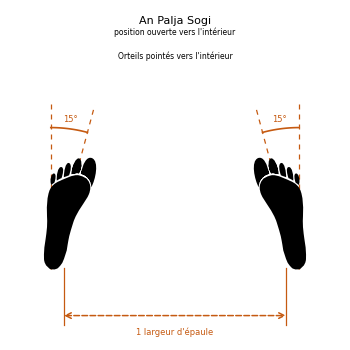
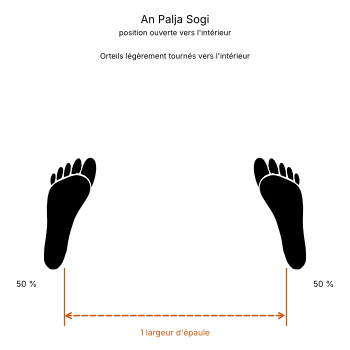
Aligner les schémas des positions sur l'Encyclopédie (p. 65-83)
Corrige le générateur de schémas et régénère 13 schémas : Narani (bords
extérieurs), Annun et Sasun (gros orteil à gros orteil), Niunja (tranchant
arrière → orteils avant, talon avant 2,5 cm au-delà du talon arrière),
Gojung (même placement), Dwitbal (pied arrière rentré de 15°, pas 35°),
Soojik (pied avant au droit du talon arrière), Kyocha (pied croisé devant),
Waebal/Guburyo (tranchant interne), An Palja (angle non chiffré).
Aligne les phrases du manuel et des fiches Narani et Dwitbal qui décrivaient
les mêmes cotes.

Claude-Session: https://claude.ai/code/session_01A1NHe48Zve2KgpxbBVKny8

diff --git a/scripts/generer-sogi.py b/scripts/generer-sogi.py
@@ -408,6 +408,18 @@ def position(slug, titre, sous_titre=None):
     return deco
 
 
+def _xmin(pied):
+    return min(p[0] for p in pied.points())
+
+
+def _ymin(pied):
+    return min(p[1] for p in pied.points())
+
+
+def _ymax(pied):
+    return max(p[1] for p in pied.points())
+
+
 def _avancer(pied, repere, cible):
     """Décale un pied pour amener l'ordonnée d'un de ses repères sur `cible`."""
     return pied.decaler(0.0, cible - pied.rp(repere)[1])
@@ -426,13 +438,15 @@ def _junbi(s):
 
 @position("narani-sogi", "Narani Sogi", "position parallèle")
 def _narani(s):
-    g = s.pied("G", at=(-EPAULE / 2, PIED_L), repere="gros-orteil")
-    d = s.pied("D", at=(EPAULE / 2, PIED_L), repere="gros-orteil")
-    s.cote_h(PIED_L + 6, -EPAULE / 2, EPAULE / 2,
-             L_EPAULE + "\n(gros orteil à gros orteil)",
-             ext=(PIED_L, PIED_L + 8))
+    # Encyclopédie p. 65 : le croquis cote une largeur d'épaule entre les
+    # bords extérieurs des pieds, orteils droit devant.
+    g = s.pied("G", at=(-EPAULE / 2, 0), repere="externe")
+    d = s.pied("D", at=(EPAULE / 2, 0), repere="externe")
+    s.cote_h(-13, -EPAULE / 2, EPAULE / 2, L_EPAULE + "\n(bords extérieurs)",
+             ext=(-15, 1), dessous=True)
     s.poids(g, "50 %")
     s.poids(d, "50 %")
+    s.texte((0, PIED_L + 5), "Pieds parallèles (0°)")
 
 
 @position("narani-junbi-sogi", "Narani Junbi Sogi", "position d'attente parallèle")
@@ -474,14 +488,15 @@ def _kyong_ye(s):
 
 @position("annun-sogi", "Annun Sogi", "position assise (du cavalier)")
 def _annun(s):
-    g = s.pied("G", at=(-EPAULE_15 / 2, 0), repere="centre")
-    d = s.pied("D", at=(EPAULE_15 / 2, 0), repere="centre")
-    s.cote_h(-23, -EPAULE_15 / 2, EPAULE_15 / 2,
-             L_EPAULE_15 + "\n(de centre à centre)", ext=(-25, -12.5),
-             dessous=True)
+    # Encyclopédie p. 72 : une largeur d'épaule et demie entre les gros orteils.
+    g = s.pied("G", at=(-EPAULE_15 / 2, PIED_L), repere="gros-orteil")
+    d = s.pied("D", at=(EPAULE_15 / 2, PIED_L), repere="gros-orteil")
+    yo = g.rp("gros-orteil")[1]
+    s.cote_h(yo + 6, -EPAULE_15 / 2, EPAULE_15 / 2,
+             L_EPAULE_15 + "\n(gros orteil à gros orteil)", ext=(yo, yo + 8))
     s.poids(g, "50 %")
     s.poids(d, "50 %")
-    s.texte((0, PIED_L + 8), "Genoux forcés vers l'extérieur")
+    s.texte((0, -12), "Orteils droit devant,\ngenoux forcés vers l'extérieur")
 
 
 @position("gunnun-sogi", "Gunnun Sogi", "position de marche — pied gauche avant")
@@ -506,17 +521,21 @@ def _nachuo(s):
 
 @position("niunja-sogi", "Niunja Sogi", "position en « L » — pied gauche avant")
 def _niunja(s):
+    # Encyclopédie p. 69 : 1 1/2 largeur d'épaule du tranchant du pied
+    # arrière aux orteils du pied avant ; talon avant 2,5 cm au-delà du talon
+    # arrière ; orteils des deux pieds rentrés d'environ 15°.
     d = s.pied("D", at=(0, 0), angle=-75, repere="talon")
-    g = s.pied("G", at=(-2.5, 0), angle=-15, repere="gros-orteil")
-    _avancer(g, "gros-orteil", d.rp("petit-orteil")[1] + EPAULE_15)
-    y0, y1 = d.rp("petit-orteil")[1], g.rp("gros-orteil")[1]
-    s.cote_v(20, y0, y1,
-             L_EPAULE_15 + "\n(petit orteil arrière →\ngros orteil avant)",
-             ext=(-12, 22))
-    s.cote_h(y0 - 12, -2.5, 0,
-             "Gros orteil avant à 2,5 cm\nà l'extérieur du talon arrière",
-             ext=(y0 - 14, 2), dessous=True)
-    s.ligne((-2.5, y0 - 14), (-2.5, y1))
+    xt = _xmin(d)
+    g = s.pied("G", at=(xt - 2.5, 0), angle=-15, repere="talon")
+    _avancer(g, "orteils", _ymin(d) + EPAULE_15)
+    y0, y1 = _ymin(d), _ymax(g)
+    s.cote_v(24, y0, y1,
+             L_EPAULE_15 + "\n(tranchant du pied arrière\n→ orteils du pied avant)",
+             ext=(xt - 12, 26))
+    s.cote_h(y0 - 12, xt - 2.5, xt,
+             "Talon avant 2,5 cm au-delà\ndu talon arrière",
+             ext=(y0 - 14, y0), dessous=True)
+    s.ligne((xt - 2.5, y0 - 14), (xt - 2.5, g.rp("talon")[1]))
     s.poids(g, "30 %")
     s.poids(d, "70 %")
     s.texte((0, y1 + 8), "Pieds à ~90°, orteils rentrés de 15°")
@@ -524,8 +543,10 @@ def _niunja(s):
 
 @position("gojung-sogi", "Gojung Sogi", "position fixe — pied gauche avant")
 def _gojung(s):
+    # Encyclopédie p. 71 : placement de Niunja Sogi, 1 1/2 largeur d'épaule
+    # entre les gros orteils, poids réparti également.
     d = s.pied("D", at=(0, 0), angle=-75, repere="talon")
-    g = s.pied("G", at=(-2.5, 0), angle=-15, repere="gros-orteil")
+    g = s.pied("G", at=(_xmin(d) - 2.5, 0), angle=-15, repere="talon")
     _avancer(g, "gros-orteil", d.rp("gros-orteil")[1] + EPAULE_15)
     y0, y1 = d.rp("gros-orteil")[1], g.rp("gros-orteil")[1]
     s.cote_v(20, y0, y1, L_EPAULE_15 + "\n(gros orteil à gros orteil)",
@@ -538,31 +559,40 @@ def _gojung(s):
 @position("dwitbal-sogi", "Dwitbal Sogi",
           "position arrière rapprochée — pied gauche avant")
 def _dwitbal(s):
-    d = s.pied("D", at=(0, 0), angle=-35, repere="talon")
-    g = s.pied("G", at=(0, 0), angle=-25, repere="centre", appui="plante")
+    # Encyclopédie p. 77 : une largeur d'épaule entre les petits orteils ;
+    # orteils du pied avant rentrés d'environ 25°, du pied arrière d'environ
+    # 15° ; talon arrière légèrement au-delà du talon avant ; l'essentiel du
+    # poids sur le pied arrière.
+    d = s.pied("D", at=(0, 0), angle=-75, repere="talon")
+    xt = _xmin(d)
+    g = s.pied("G", at=(xt + 2.5, 0), angle=-25, repere="talon", appui="plante")
     _avancer(g, "petit-orteil", d.rp("petit-orteil")[1] + EPAULE)
     y0, y1 = d.rp("petit-orteil")[1], g.rp("petit-orteil")[1]
-    s.cote_v(22, y0, y1, L_EPAULE + "\n(petit orteil\nà petit orteil)",
-             ext=(-14, 24))
-    s.ligne((0, y0 - 8), (0, y1 + 8))
-    s.note(g.rp("talon"), (-34, y1 * 0.6),
+    s.cote_v(30, y0, y1, L_EPAULE + "\n(petit orteil\nà petit orteil)",
+             ext=(xt - 4, 32))
+    s.ligne((xt, y0 - 10), (xt, g.rp("talon")[1] + 4))
+    s.note(g.rp("talon"), (-34, (y0 + y1) / 2 - 4),
            "Talon avant décollé :\nappui sur la plante", courbe=0.25)
-    s.angle(d.rp("talon"), 55, 90, PIED_L + 5, "35°", rayons=PIED_L + 11)
-    s.poids(g, "0 %")
-    s.poids(d, "~100 %")
-    s.texte((0, -22), "Pied avant centré sur l'axe du talon arrière")
+    s.texte((g.rp("orteils")[0] + 4, _ymax(g) + 4), "très peu de poids",
+            taille=T_COTE, ha="left", va="bottom")
+    s.poids(d, "l'essentiel\ndu poids")
+    s.texte((6, y0 - 18), "Orteils rentrés : avant ~25°, arrière ~15°\n"
+                          "Talon arrière légèrement au-delà du talon avant")
 
 
 @position("soojik-sogi", "Soojik Sogi", "position verticale — pied gauche avant")
 def _soojik(s):
     # comme en position en L : pieds presque à angle droit, orteils des deux
     # pieds rentrés d'environ 15° (Encyclopédie condensée, position verticale)
-    d = s.pied("D", at=(PIED_l / 2 + 1, 0), angle=-75, repere="talon")
-    g = s.pied("G", at=(-PIED_l / 2 - 1, 0), angle=-15, repere="centre")
+    # (Encyclopédie p. 77). Le texte ne fixe pas le décalage latéral : le
+    # croquis place le pied avant au droit du talon arrière.
+    d = s.pied("D", at=(0, 0), angle=-75, repere="talon")
+    xt = _xmin(d)
+    g = s.pied("G", at=(xt + 2.5, 0), angle=-15, repere="talon")
     _avancer(g, "gros-orteil", d.rp("gros-orteil")[1] + EPAULE)
     y0, y1 = d.rp("gros-orteil")[1], g.rp("gros-orteil")[1]
-    s.cote_v(42, y0, y1, L_EPAULE + "\n(gros orteil à gros orteil)",
-             ext=(-14, 44))
+    s.cote_v(30, y0, y1, L_EPAULE + "\n(gros orteil à gros orteil)",
+             ext=(xt - 4, 32))
     s.poids(g, "40 %")
     s.poids(d, "60 %")
     s.texte((0, y1 + 8), "Pieds à ~90°, orteils rentrés de 15°")
@@ -570,12 +600,17 @@ def _soojik(s):
 
 @position("sasun-sogi", "Sasun Sogi", "position en diagonale — pied gauche avant")
 def _sasun(s):
-    d = s.pied("D", at=(EPAULE_15 / 2, 0), repere="centre")
-    g = s.pied("G", at=(-EPAULE_15 / 2, 0), repere="centre")
+    # Encyclopédie p. 74 : écart de Annun Sogi (gros orteil à gros orteil),
+    # talon avant sur la ligne des orteils arrière.
+    d = s.pied("D", at=(EPAULE_15 / 2, PIED_L), repere="gros-orteil")
+    g = s.pied("G", at=(-EPAULE_15 / 2, PIED_L), repere="gros-orteil")
     _avancer(g, "talon", d.rp("orteils")[1])
-    s.cote_h(-23, -EPAULE_15 / 2, EPAULE_15 / 2,
-             L_EPAULE_15 + "\n(dimensions de Annun Sogi)", ext=(-25, -12.5),
-             dessous=True)
+    yo = g.rp("gros-orteil")[1]
+    s.cote_h(yo + 6, -EPAULE_15 / 2, EPAULE_15 / 2,
+             L_EPAULE_15 + "\n(gros orteil à gros orteil)",
+             ext=(d.rp("gros-orteil")[1], yo + 8))
+    s.poids(g, "50 %")
+    s.poids(d, "50 %")
     s.ligne((-EPAULE_15 / 2 - 8, d.rp("orteils")[1]),
             (EPAULE_15 / 2 + 8, d.rp("orteils")[1]))
     s.note(g.rp("talon"), (-EPAULE_15 / 2 - 26, d.rp("orteils")[1] + 8),
@@ -585,18 +620,21 @@ def _sasun(s):
 @position("oguryo-sogi", "Oguryo Sogi", "position accroupie")
 def _oguryo(s):
     _sasun(s)
-    s.texte((0, PIED_L + 22),
-            "Appuis de Sasun Sogi\nGenoux fléchis vers l'intérieur")
+    s.texte((0, -14),
+            "Appuis de Sasun Sogi (écart variable)\nGenoux fléchis vers l'intérieur")
 
 
 @position("kyocha-sogi", "Kyocha Sogi", "position en « X »")
 def _kyocha(s):
+    # Encyclopédie p. 75 : le pied libre croise devant le pied d'appui et
+    # ne touche le sol que du bol du pied ; tout le poids sur le pied d'appui.
     g = s.pied("G", at=(0, 0), repere="talon")
-    d = s.pied("D", at=(-9, 0), repere="plante-avant", appui="plante")
-    s.note(g.rp("centre"), (24, PIED_L + 6),
-           "Pied d'appui à plat :\n100 % du poids", courbe=0.25)
-    s.note(d.rp("orteils"), (-30, -12),
-           "Pied croisé : plante seule,\n0 % du poids", courbe=0.25)
+    d = s.pied("D", at=(-PIED_l - 1, 0.4 * PIED_L), repere="talon",
+               appui="plante")
+    s.note(g.rp("centre"), (24, PIED_L * 0.4),
+           "Pied d'appui à plat :\ntout le poids", courbe=-0.25)
+    s.note(d.rp("plante-avant"), (-30, PIED_L * 1.6),
+           "Pied croisé devant :\nbol du pied seul", courbe=-0.25)
 
 
 @position("waebal-sogi", "Waebal Sogi", "position sur une jambe — appui droit")
@@ -605,8 +643,8 @@ def _waebal(s):
     s.pied("G", at=(-20, 0), repere="centre", appui="leve")
     s.note(d.rp("centre"), (26, PIED_L + 4),
            "Jambe d'appui tendue :\n100 % du poids", courbe=0.25)
-    s.texte((-20, -16), "Pied relevé (0 %), parallèle\nau pied d'appui :\n"
-                        "tranchant externe sur la rotule", couleur=GRIS)
+    s.texte((-20, -18), "Pied relevé (0 %) : tranchant\ninterne contre le genou d'appui,\n"
+                        "ou cou-de-pied dans le creux\npoplité", couleur=GRIS)
 
 
 @position("guburyo-sogi", "Guburyo Sogi", "position fléchie — appui droit")
@@ -631,9 +669,9 @@ def _an_palja(s):
     d = s.pied("D", at=(EPAULE / 2, 0), angle=15, repere="centre")
     s.cote_h(-22, -EPAULE / 2, EPAULE / 2, L_EPAULE, ext=(-24, -12),
              dessous=True)
-    s.angle(d.rp("talon"), 90, 105, PIED_L + 5, "15°", rayons=PIED_L + 11)
-    s.angle(g.rp("talon"), 75, 90, PIED_L + 5, "15°", rayons=PIED_L + 11)
-    s.texte((0, PIED_L + 8), "Orteils pointés vers l'intérieur")
+    s.poids(g, "50 %")
+    s.poids(d, "50 %")
+    s.texte((0, PIED_L + 8), "Orteils légèrement tournés vers l'intérieur")
 
 
 @position("bakat-palja-sogi", "Bakat Palja Sogi", "position ouverte vers l'extérieur")

diff --git a/Theorie/manuel/partie-4-positions-sogi/16-les-21-positions-en-detail.md b/Theorie/manuel/partie-4-positions-sogi/16-les-21-positions-en-detail.md
@@ -61,7 +61,7 @@ Chaque fiche donne les dimensions, l'orientation des pieds, la répartition du p
 ## 16.6 Position parallèle (Narani Sogi)
 
 * **Nomenclature coréenne :** *Narani Sogi / [나란히 서기](../../../audio/grammaire/Narani-Sogi.m4a)*.
-* **Largeur :** Les pieds sont écartés d'**une largeur d'épaule** entre les gros orteils.
+* **Largeur :** Les pieds sont écartés d'**une largeur d'épaule**, mesurée entre les bords extérieurs des pieds.
 * **Orientation :** Les pieds sont strictement parallèles, les orteils pointant droit devant (0°).
 * **Poids :** Réparti à 50% sur le pied gauche, 50% sur le pied droit.
 * **Schéma d'alignement :**
@@ -83,7 +83,7 @@ Chaque fiche donne les dimensions, l'orientation des pieds, la répartition du p
 ## 16.8 Position assise (Annun Sogi)
 
 * **Nomenclature coréenne :** *Annun Sogi / [앉은 서기](../../../audio/grammaire/Annun-Sogi.m4a)*.
-* **Largeur :** **Une largeur et demie d'épaule** mesurée de centre à centre de chaque pied.
+* **Largeur :** **Une largeur et demie d'épaule** mesurée entre les gros orteils.
 * **Orientation :** Les pieds sont strictement parallèles, les orteils pointant vers l'avant (0°).
 * **Genoux :** Forcer puissamment les genoux vers l'extérieur.
 * **Poids et Posture :** Poids réparti à 50% sur chaque jambe, abdomen contracté et tendu pour assurer une stabilité maximale lors des mouvements latéraux.
@@ -113,8 +113,8 @@ Chaque fiche donne les dimensions, l'orientation des pieds, la répartition du p
 ## 16.10 Position en « L » (Niunja Sogi)
 
 * **Nomenclature coréenne :** *Niunja Sogi / [ㄴ자 서기](../../../audio/grammaire/Niunja-Sogi.m4a)*.
-* **Longueur :** **Une largeur et demie d'épaule** mesurée entre le gros orteil du pied avant et le petit orteil du pied arrière.
-* **Alignement et décalage :** Les pieds forment presque un angle droit (90°). Les orteils de chaque pied pointent à environ **15 degrés vers l'intérieur**. Le talon du pied avant est décalé et placé à environ **2,5 cm en avant** de la ligne du talon du pied arrière pour assurer la stabilité latérale.
+* **Longueur :** **Une largeur et demie d'épaule** mesurée du tranchant du pied arrière (*Balkal*) aux orteils du pied avant.
+* **Alignement et décalage :** Les pieds forment presque un angle droit (90°). Les orteils de chaque pied pointent à environ **15 degrés vers l'intérieur**. Le talon du pied avant dépasse d'environ **2,5 cm** le talon du pied arrière, vers l'extérieur, pour une meilleure stabilité.
 * **Poids :** Réparti à **70% sur la jambe arrière** et **30% sur la jambe avant**.
 * **Flexion :**
     * Jambe arrière : Fléchie jusqu'à ce que la rotule forme une ligne verticale droite avec les orteils. Conserver la hanche parfaitement alignée avec la jointure interne du genou arrière.
@@ -138,7 +138,7 @@ Chaque fiche donne les dimensions, l'orientation des pieds, la répartition du p
 ## 16.12 Position sur une jambe (Waebal Sogi)
 
 * **Nomenclature coréenne :** *Waebal Sogi / [외발 서기](../../../audio/grammaire/Waebal-Sogi.m4a)*.
-* **Exécution :** Étirer complètement la jambe d'appui immobile au sol. Placer le tranchant externe du pied de la jambe relevée directement **sur la rotule** (ou dans le creux poplité) du genou de support.
+* **Exécution :** Étirer complètement la jambe d'appui immobile au sol. Placer le tranchant inversé du pied relevé (*Balkal Dung*, bord interne) **contre l'articulation du genou** de support, ou le cou-de-pied dans le creux poplité.
 * **Poids :** 100% sur la jambe d'appui, 0% sur la jambe pliée.
 * **Usage :** Exercices d'équilibre, mais aussi techniques d'attaque et de défense sur un seul appui.
 * **Schéma d'alignement :**
@@ -168,9 +168,9 @@ Chaque fiche donne les dimensions, l'orientation des pieds, la répartition du p
 
 * **Nomenclature coréenne :** *Dwitbal Sogi / [뒷발 서기](../../../audio/grammaire/Dwitbal-Sogi.m4a)*.
 * **Longueur :** Écartement très court d'**une largeur d'épaule** mesurée entre les deux petits orteils.
-* **Alignement :** Les genoux sont fléchis. Le talon du pied arrière est positionné en ligne droite verticale directement derrière le talon du pied avant.
+* **Alignement :** Les genoux sont fléchis. Le talon du pied arrière est placé légèrement au-delà du talon du pied avant.
 * **Orientation :**
-    * Pied arrière : À plat au sol. Les orteils pointent vers l'intérieur à **35 degrés**, et le genou arrière doit impérativement **pointer légèrement vers l'intérieur**.
+    * Pied arrière : À plat au sol. Les orteils pointent à environ **15 degrés vers l'intérieur**, et le genou arrière doit impérativement **pointer légèrement vers l'intérieur**.
     * Pied avant : Talon décollé du sol, le pied ne fait que **frôler le sol avec la plante**. Les orteils pointent vers l'intérieur à **25 degrés**.
 * **Poids :** Presque 100% sur la jambe arrière fléchie (le pied avant restant libre pour frapper instantanément ou ajuster la distance).
 * **Schéma d'alignement :**

diff --git a/sogi/Dwitbal-Sogi.md b/sogi/Dwitbal-Sogi.md
@@ -21,7 +21,7 @@ Sa décomposition linguistique est la suivante :
 | Caractéristique | Norme technique ITF |
 | --- | --- |
 | **Répartition du poids** | **95% sur la jambe arrière / 5% sur la jambe avant** (la jambe arrière porte la quasi-totalité de la masse du corps). |
-| **Longueur de la posture** | **1 largeur d'épaules** (mesurée entre le gros orteil du pied avant et les orteils du pied arrière). |
+| **Longueur de la posture** | **1 largeur d'épaules** (mesurée entre les petits orteils des deux pieds). |
 | **Orientation du pied arrière** | Tourné à environ **15° vers l'intérieur** par rapport à la perpendiculaire. |
 | **Orientation du pied avant** | Pointé légèrement vers l'intérieur (environ **25°**) sur la ligne d'attaque. |
 | **Contact au sol du pied avant** | **Uniquement le bol du pied (*Ap Kumchi*)** touche le sol très légèrement. Le talon est maintenu décollé du sol. |

diff --git a/sogi/Narani-Sogi.md b/sogi/Narani-Sogi.md
@@ -14,7 +14,7 @@ C'est une position debout, jambes droites, pieds écartés d'une largeur d'épau
 
 | Caractéristique | Norme technique ITF |
 | --- | --- |
-| **Écartement des pieds** | **Une largeur d'épaule**, mesurée entre les gros orteils. |
+| **Écartement des pieds** | **Une largeur d'épaule**, mesurée entre les bords extérieurs des pieds. |
 | **Orientation des pieds** | **Strictement parallèles**, orteils pointant droit devant (0°). |
 | **Répartition du poids** | **50 % / 50 %**, également sur les deux pieds. |
 | **Position des genoux** | Jambes droites, genoux souples mais non fléchis. |
